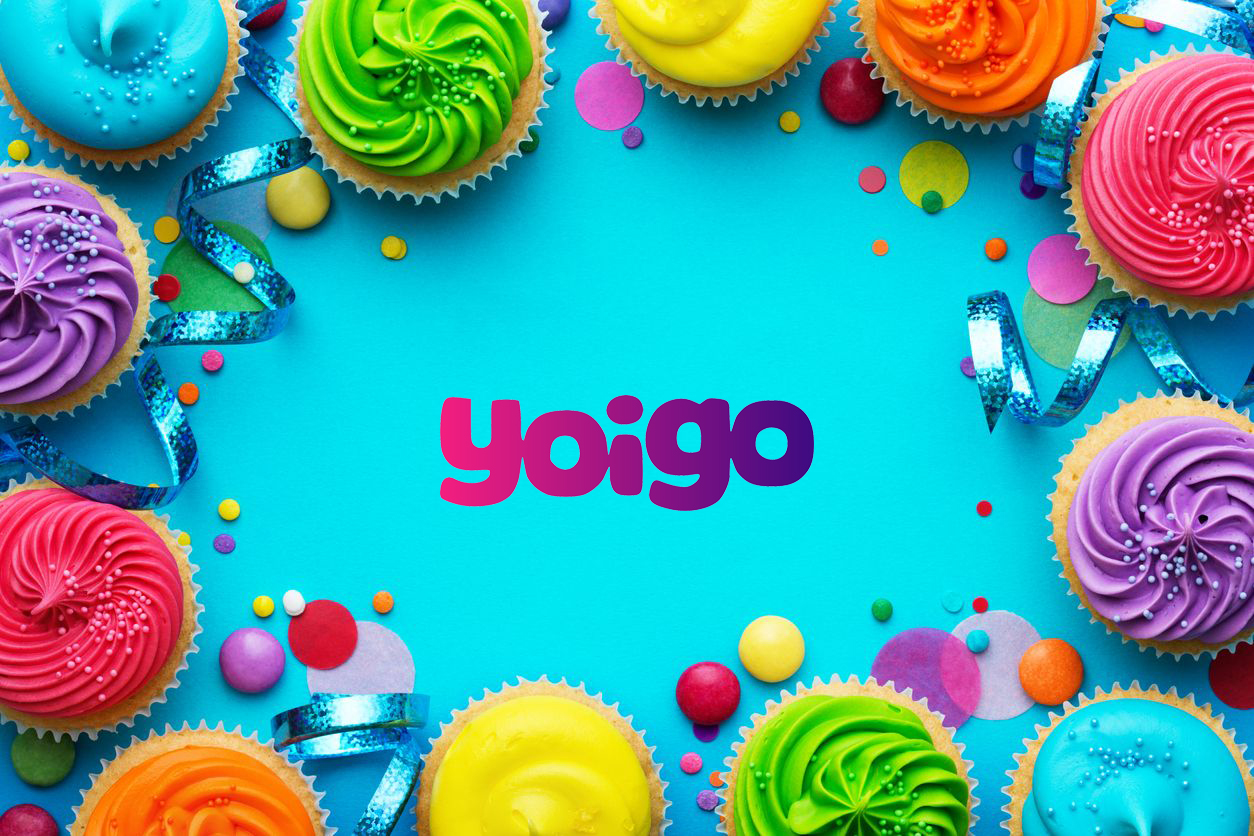
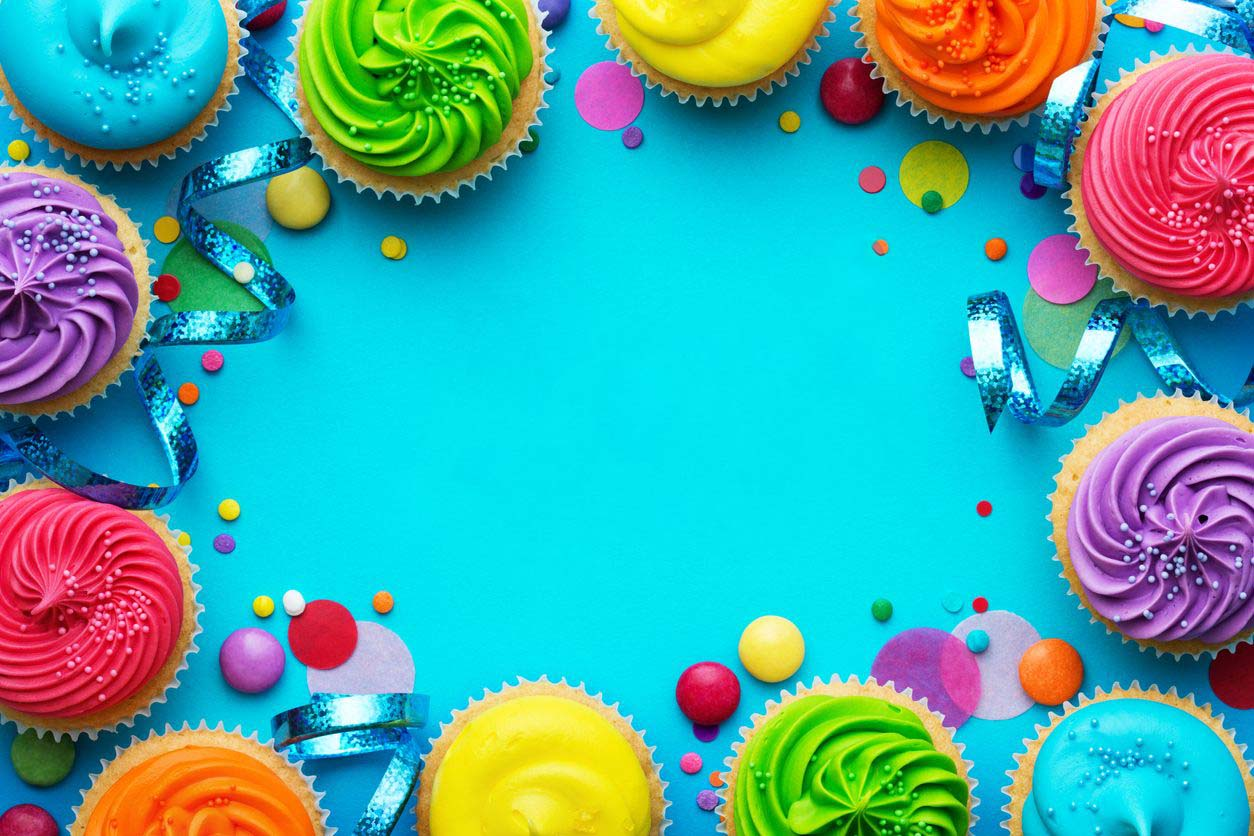
changed a lot of things

diff --git a/assets/css/app.css b/assets/css/app.css
@@ -1,6 +1,8 @@
 @import url("https://fonts.googleapis.com/css?family=Poppins");
 @import url("https://fonts.googleapis.com/css?family=Poppins:800");
 @import url("https://fonts.googleapis.com/css?family=Poppins:600");
+@import url("https://fonts.googleapis.com/css?family=Poppins:500");
+@import url("https://fonts.googleapis.com/css?family=Poppins:400");
 * {
   padding: 0px;
   margin: 0px;
@@ -789,6 +791,7 @@ body {
   text-decoration: none;
   font-size: 0.9rem;
   transition: all 0.3s;
+  font-weight: 600;
 }
 
 #spangler nav .topnav a:hover {
@@ -866,6 +869,17 @@ body {
   height: 15px;
   background-size: 40px 20px;
   background-image: radial-gradient(circle at 10px 15px, white 12px, transparent 13px);
+}
+
+#spangler .hero .textcontent {
+  max-width: 500px;
+  margin: 15vh auto;
+  color: white;
+  text-align: center;
+}
+
+#spangler .hero .textcontent h1 {
+  font-size: 1.2rem;
 }
 
 @media screen and (max-width: 700px) {

diff --git a/assets/css/pages/_spangler.sass b/assets/css/pages/_spangler.sass
@@ -38,6 +38,7 @@
         text-decoration: none
         font-size: 0.9rem
         transition: all 0.3s
+        font-weight: 600
         &:hover
           color: black
 
@@ -76,7 +77,7 @@
       position: absolute
       bottom: 0
       z-index: 2000
-    .wave, .wavedown
+    .wave, .wavedown 
       height: 50px
       &::before
         content: ""
@@ -98,3 +99,11 @@
         height: 15px
         background-size: 40px 20px
         background-image: radial-gradient(circle at 10px 15px, white 12px, transparent 13px)
+
+    .textcontent
+      max-width: 500px
+      margin: 15vh auto
+      color: white
+      text-align: center
+      h1
+        font-size: 1.2rem

diff --git a/assets/pages/spangler.html b/assets/pages/spangler.html
@@ -56,7 +56,11 @@
 
         <section class="hero">
             <div class="wave"></div>
-
+            <div class="textcontent">
+                <h1>We Bake Your Dream</h1>
+                <p>Lorem ipsum dolor sit amet consectetur adipisicing elit. beatae voluptatem eligendi tempora!</p>
+                <button>Try our cakes</button>
+            </div>
             <div class="waved">
                 <div class="wavedown"></div>
             </div>

diff --git a/assets/css/pages/_index.sass b/assets/css/pages/_index.sass
@@ -1,6 +1,8 @@
 @import url('https://fonts.googleapis.com/css?family=Poppins')
 @import url('https://fonts.googleapis.com/css?family=Poppins:800')
 @import url('https://fonts.googleapis.com/css?family=Poppins:600')
+@import url('https://fonts.googleapis.com/css?family=Poppins:500')
+@import url('https://fonts.googleapis.com/css?family=Poppins:400')
 
 *
   padding: 0px
